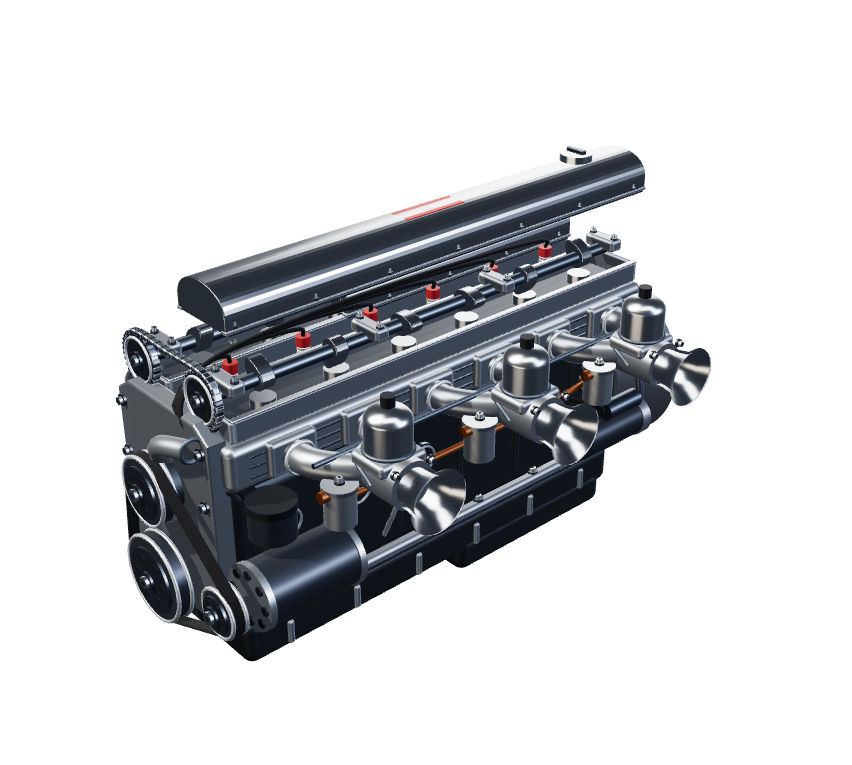
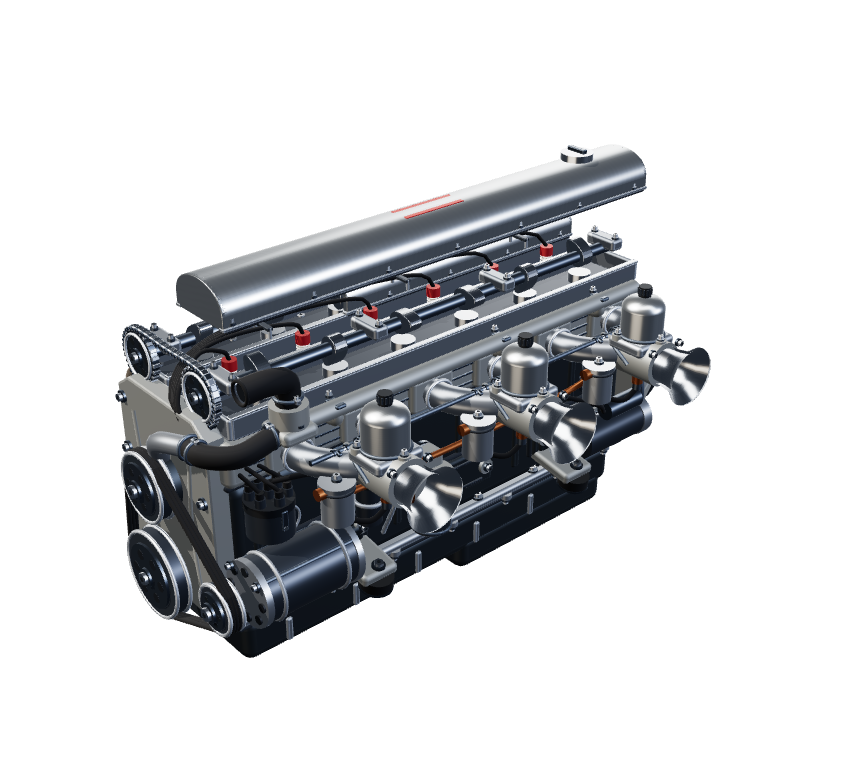
feat(site): refine engine materials and mechanical detail

Changed region(s): [[0.1221, 0.1804, 0.8239, 0.8719]]

diff --git a/apps/site/src/inline-six-model.ts b/apps/site/src/inline-six-model.ts
@@ -78,6 +78,38 @@ export function createInlineSixEngine() {
     roughness: 0.7,
   });
 
+  const brushedCanvas = document.createElement("canvas");
+  brushedCanvas.width = brushedCanvas.height = 256;
+  const brushedContext = brushedCanvas.getContext("2d")!;
+  const brushedPixels = brushedContext.createImageData(256, 256);
+  for (let y = 0; y < 256; y++) {
+    seed = (Math.imul(seed, 1664525) + 1013904223) >>> 0;
+    const line = 197 + (seed >>> 29);
+    for (let x = 0; x < 256; x++) {
+      const value = line + Math.round(2 * Math.sin(x * 0.07 + y * 0.13));
+      brushedPixels.data.set([value, value, value, 255], (y * 256 + x) * 4);
+    }
+  }
+  brushedContext.putImageData(brushedPixels, 0, 0);
+  const brushed = new THREE.CanvasTexture(brushedCanvas);
+  brushed.wrapS = brushed.wrapT = THREE.RepeatWrapping;
+  brushed.repeat.set(1, 3);
+  textures.push(brushed);
+  const polishedAlloy = new THREE.MeshStandardMaterial({
+    color: 0xcbd0d2, metalness: 0.96, roughness: 0.34,
+    roughnessMap: brushed, bumpMap: brushed, bumpScale: 0.0015,
+  });
+  const castAlloy = new THREE.MeshStandardMaterial({
+    color: 0x90928f, metalness: 0.72, roughness: 0.54,
+    bumpMap: grain, bumpScale: 0.018,
+  });
+  const porcelain = new THREE.MeshStandardMaterial({
+    color: 0xded7c8, metalness: 0, roughness: 0.24,
+  });
+  const exhaustSteel = new THREE.MeshStandardMaterial({
+    color: 0xffffff, metalness: 0.92, roughness: 0.32, vertexColors: true,
+    roughnessMap: brushed,
+  });
   function part(
     geometry: THREE.BufferGeometry,
     material: THREE.Material,
@@ -97,7 +129,7 @@ export function createInlineSixEngine() {
     radius = 0.045,
   ) {
     return part(
-      new RoundedBoxGeometry(size[0], size[1], size[2], 3, radius),
+      new RoundedBoxGeometry(size[0], size[1], size[2], 2, radius),
       material,
       parent,
       position,
@@ -110,7 +142,7 @@ export function createInlineSixEngine() {
     material: THREE.Material,
     parent: THREE.Object3D = engine,
     axis: "x" | "y" | "z" = "z",
-    segments = 48,
+    segments = 32,
   ) {
     const mesh = part(
       new THREE.CylinderGeometry(radius, radius, length, segments),
@@ -145,7 +177,7 @@ export function createInlineSixEngine() {
     radius: number,
     material: THREE.Material,
     parent: THREE.Object3D = engine,
-    segments = 48,
+    segments = 32,
   ) {
     const curve = new THREE.CatmullRomCurve3(
       points.map((p) => new THREE.Vector3(...(p as [number, number, number]))),
@@ -161,13 +193,14 @@ export function createInlineSixEngine() {
     parent: THREE.Object3D = engine,
     axis: "x" | "y" | "z" = "z",
     radius = 0.055,
+    direction = 1,
   ) {
     cylinder(radius * 1.4, 0.025, position, steel, parent, axis, 24);
     const face = [...position];
-    face[{ x: 0, y: 1, z: 2 }[axis]] += 0.025;
+    face[{ x: 0, y: 1, z: 2 }[axis]] += direction * 0.025;
     cylinder(radius, 0.045, face, chrome, parent, axis, 6);
     const inset = [...face];
-    inset[{ x: 0, y: 1, z: 2 }[axis]] += 0.025;
+    inset[{ x: 0, y: 1, z: 2 }[axis]] += direction * 0.025;
     cylinder(radius * 0.42, 0.002, inset, black, parent, axis, 6);
   }
   function plate(
@@ -214,12 +247,12 @@ export function createInlineSixEngine() {
   }
   fastener([0, -1.7, -2.52], engine, 'z', 0.095);
   box([1.63, 0.06, 5.45], [0, 0.43, 0], seal);
-  box([1.78, 0.45, 5.5], [0, 0.68, 0], metal, engine, 0.08);
+  box([1.78, 0.45, 5.5], [0, 0.68, 0], castAlloy, engine, 0.08);
   for (const side of [-1, 1]) {
     for (let row = 0; row < 3; row++)
       box([0.025, 0.023, 5.08], [side * 0.895, 0.57 + row * 0.105, 0], steel, engine, 0.007);
     for (const z of stations) {
-      box([0.14, 0.36, 0.53], [side * 0.9, 0.68, z], metal);
+      box([0.14, 0.36, 0.53], [side * 0.9, 0.68, z], castAlloy);
       fastener([side * 0.77, 0.94, z + 0.31], engine, 'y', 0.045);
     }
   }
@@ -268,10 +301,22 @@ export function createInlineSixEngine() {
     const cover = new THREE.Group();
     cover.position.set(x, y, z);
     engine.add(cover);
-    part(new THREE.ExtrudeGeometry(shell, {
+    const shellGeometry = new THREE.ExtrudeGeometry(shell, {
       depth: length, bevelEnabled: true, bevelSize: 0.012,
-      bevelThickness: 0.012, bevelSegments: 3, curveSegments: 24,
-    }), chrome, cover, [0, 0, -length / 2]);
+      bevelThickness: 0.012, bevelSegments: 3, curveSegments: 32,
+    });
+    // Smooth the domed walls while keeping the machined rim and end bevels crisp.
+    const shellPositions = shellGeometry.getAttribute("position");
+    const shellNormals = shellGeometry.getAttribute("normal");
+    const wallNormal = new THREE.Vector3();
+    for (let i = 0; i < shellPositions.count; i++) {
+      const x = shellPositions.getX(i), y = shellPositions.getY(i);
+      if (y <= 0.12 || Math.abs(shellNormals.getZ(i)) > 0.01) continue;
+      wallNormal.set(x / (0.35 * 0.35), (y - 0.12) / (0.24 * 0.24), 0).normalize();
+      const facing = Math.sign(wallNormal.x * shellNormals.getX(i) + wallNormal.y * shellNormals.getY(i));
+      shellNormals.setXYZ(i, wallNormal.x * facing, wallNormal.y * facing, 0);
+    }
+    part(shellGeometry, polishedAlloy, cover, [0, 0, -length / 2]);
     const endProfile = new THREE.Shape();
     endProfile.moveTo(-0.35, 0);
     endProfile.lineTo(-0.35, 0.12);
@@ -283,7 +328,7 @@ export function createInlineSixEngine() {
       part(new THREE.ExtrudeGeometry(endProfile, {
         depth: 0.035, bevelEnabled: true, bevelSize: 0.012,
         bevelThickness: 0.012, bevelSegments: 3, curveSegments: 24,
-      }), chrome, cover, [0, 0, end * length / 2 - 0.0175]);
+      }), polishedAlloy, cover, [0, 0, end * length / 2 - 0.0175]);
     }
     for (const side of [-1, 1]) {
       box([0.075, 0.035, length + 0.07], [side * 0.34, 0, 0], metal, cover, 0.012);
@@ -320,11 +365,11 @@ export function createInlineSixEngine() {
   // Central spark plugs and six leads follow the valley between the cam housings.
   for (const [i, z] of stations.entries()) {
     cylinder(0.095, 0.045, [0, 0.97, z], chrome, engine, 'y', 6);
-    cylinder(0.058, 0.15, [0, 1.065, z], metal, engine, 'y', 20);
-    for (let j = 0; j < 4; j++) ring(0.061, 0.008, [0, 1.02 + j * 0.032, z], chrome, engine, 'y');
+    cylinder(0.058, 0.15, [0, 1.065, z], porcelain, engine, 'y', 20);
+    for (let j = 0; j < 4; j++) ring(0.061, 0.008, [0, 1.02 + j * 0.032, z], porcelain, engine, 'y');
     cylinder(0.073, 0.1, [0, 1.18, z], red, engine, 'y', 20);
-    tube([[0, 1.23, z], [0.11, 1.37, z + 0.1], [0.14, 1.38, 2.45],
-      [0.22 + i * 0.022, 1.1, 2.85], [0.85, 0.18, 2.32 + i * 0.035]], 0.021, rubber, engine, 40);
+    tube([[0, 1.23, z], [-0.095 + i * 0.035, 1.37, z + 0.1], [-0.095 + i * 0.035, 1.38 + i * 0.012, 2.45],
+      [0.22 + i * 0.022, 1.1, 2.85], [0.98 + Math.cos(i * Math.PI / 3) * 0.17, 0.47, 2.4 + Math.sin(i * Math.PI / 3) * 0.17]], 0.021, rubber, engine, 40);
   }
   cylinder(0.23, 0.3, [0.98, 0.11, 2.4], graphite, engine, 'y');
   cylinder(0.24, 0.08, [0.98, 0.29, 2.4], black, engine, 'y');
@@ -336,10 +381,10 @@ export function createInlineSixEngine() {
         [1.66, 0.7, z]], 0.14, metal, engine, 30);
       ring(0.155, 0.02, [1.05, 0.68, z + dz], chrome, engine, 'x');
     }
-    cylinder(0.235, 0.57, [1.8, 0.7, z], metal, engine, 'x');
+    cylinder(0.235, 0.57, [1.8, 0.7, z], castAlloy, engine, 'x');
     box([0.44, 0.13, 0.53], [1.77, 0.86, z], metal);
-    cylinder(0.22, 0.33, [1.77, 1.065, z], chrome, engine, 'y');
-    const dome = part(new THREE.SphereGeometry(0.22, 32, 16, 0, Math.PI * 2, 0, Math.PI / 2), chrome, engine, [1.77, 1.23, z]);
+    cylinder(0.22, 0.33, [1.77, 1.065, z], polishedAlloy, engine, 'y');
+    const dome = part(new THREE.SphereGeometry(0.22, 32, 16, 0, Math.PI * 2, 0, Math.PI / 2), polishedAlloy, engine, [1.77, 1.23, z]);
     dome.scale.y = 0.6;
     cylinder(0.065, 0.12, [1.77, 1.4, z], black, engine, 'y', 24);
     ring(0.224, 0.019, [1.77, 0.94, z], steel, engine, 'y');
@@ -365,12 +410,25 @@ export function createInlineSixEngine() {
   // Six individual exhaust primaries join two three-cylinder collectors.
   stations.forEach((z, i) => {
     box([0.1, 0.39, 0.57], [-0.96, 0.67, z], steel);
-    for (const dz of [-0.22, 0.22]) fastener([-1.03, 0.71, z + dz], engine, 'x', 0.035);
+    for (const dz of [-0.22, 0.22]) fastener([-1.03, 0.71, z + dz], engine, 'x', 0.035, -1);
     const group = i < 3 ? -1 : 1;
     const endZ = group * 1.24;
-    tube([[-1, 0.66, z], [-1.36, 0.66, z], [-1.65 - (i % 3) * 0.11, 0.25, z],
+    const header = tube([[-1, 0.66, z], [-1.36, 0.66, z], [-1.65 - (i % 3) * 0.11, 0.25, z],
       [-1.71 - (i % 3) * 0.06, -0.65, z * 0.8], [-1.64, -1.2, endZ + (i % 3 - 1) * 0.16]],
-      0.125, chrome, engine, 48);
+      0.125, exhaustSteel, engine, 48);
+    const uv = header.geometry.getAttribute("uv");
+    const colors = new Float32Array(uv.count * 3);
+    const hot = new THREE.Color(0x756759);
+    const straw = new THREE.Color(0xb3a18a);
+    const cool = new THREE.Color(0xb6bdc0);
+    const color = new THREE.Color();
+    for (let j = 0; j < uv.count; j++) {
+      const t = uv.getX(j);
+      if (t < 0.22) color.copy(hot).lerp(straw, t / 0.22);
+      else color.copy(straw).lerp(cool, Math.min(1, (t - 0.22) / 0.55));
+      color.toArray(colors, j * 3);
+    }
+    header.geometry.setAttribute("color", new THREE.BufferAttribute(colors, 3));
     ring(0.133, 0.016, [-1.22, 0.66, z], steel, engine, 'x');
   });
   for (const z of [-1.24, 1.24]) {
@@ -381,7 +439,7 @@ export function createInlineSixEngine() {
 
   // Front timing chest. A small open upper section shows both cam sprockets and the chain.
   plate([[-0.74, -1.04], [0.74, -1.04], [0.73, 0.94], [0.54, 1.07],
-    [-0.54, 1.07], [-0.73, 0.94]], 0.16, [0, 0, 2.69], metal);
+    [-0.54, 1.07], [-0.73, 0.94]], 0.16, [0, 0, 2.69], castAlloy);
   for (const x of [-0.66, 0.66])
     for (const y of [-0.85, -0.3, 0.3, 0.85]) fastener([x, y, 2.89], engine, 'z', 0.044);
   function sprocket(x: number, y: number, r: number) {
@@ -453,7 +511,7 @@ export function createInlineSixEngine() {
   ring(0.112, 0.02, [0.63, 0.9, 2.95], steel, engine, 'x');
 
   // Rear flywheel housing and starter complete the silhouette from the back.
-  const bellHousing = part(new THREE.CylinderGeometry(0.7, 1.04, 0.66, 64), metal, engine, [0, -0.48, -3.02]);
+  const bellHousing = part(new THREE.CylinderGeometry(1.04, 0.7, 0.66, 64), castAlloy, engine, [0, -0.48, -3.02]);
   bellHousing.rotation.x = Math.PI / 2;
   ring(1.015, 0.045, [0, -0.48, -2.71], steel);
   cylinder(0.72, 0.05, [0, -0.48, -3.37], steel);
@@ -461,7 +519,7 @@ export function createInlineSixEngine() {
   cylinder(0.1, 0.13, [0, -0.48, -3.48], chrome);
   for (let i = 0; i < 12; i++) {
     const a = i * Math.PI / 6;
-    fastener([Math.cos(a) * 0.64, -0.48 + Math.sin(a) * 0.64, -3.41], engine, 'z', 0.037);
+    fastener([Math.cos(a) * 0.64, -0.48 + Math.sin(a) * 0.64, -3.41], engine, 'z', 0.037, -1);
   }
   cylinder(0.22, 0.92, [0.94, -0.74, -2.22], graphite);
   cylinder(0.235, 0.13, [0.94, -0.74, -2.7], metal);
@@ -469,6 +527,166 @@ export function createInlineSixEngine() {
   tube([[1.04, -0.43, -2.05], [1.18, -0.2, -1.8], [1.12, 0.05, -1.33]], 0.026, rubber);
   tube([[0.8, -0.82, 0.95], [1, -0.33, 0.94], [1.04, 0.25, 0.87]], 0.026, chrome);
   ring(0.075, 0.022, [1.04, 0.33, 0.87], red);
+  // Cast bosses and jacket covers give the block a manufactured, assembled surface.
+  for (const side of [-1, 1]) {
+    for (const z of [-1.68, 0, 1.68]) {
+      box([0.065, 0.49, 1.1], [side * 0.768, -0.55, z], seal, engine, 0.08);
+      box([0.07, 0.43, 1.03], [side * 0.815, -0.55, z], cast, engine, 0.07);
+      for (const dz of [-0.4, 0.4]) {
+        cylinder(0.085, 0.06, [side * 0.86, -0.55, z + dz], castAlloy, engine, 'x', 20);
+        fastener([side * 0.9, -0.55, z + dz], engine, 'x', 0.036, side);
+      }
+      for (const dy of [-0.69, -0.41])
+        box([0.03, 0.025, 0.73], [side * 0.86, dy, z], graphite, engine, 0.008);
+    }
+    for (const z of [-1.38, 1.4]) {
+      const mount = new THREE.Group();
+      mount.position.set(side * 0.82, -0.76, z);
+      mount.rotation.z = -side * 0.18;
+      engine.add(mount);
+      box([0.58, 0.13, 0.42], [side * 0.23, 0, 0], castAlloy, mount);
+      box([0.09, 0.28, 0.31], [0, 0.1, 0], cast, mount);
+      cylinder(0.17, 0.12, [side * 0.45, -0.09, 0], rubber, mount, 'y');
+      cylinder(0.175, 0.025, [side * 0.45, -0.16, 0], steel, mount, 'y');
+      fastener([side * 0.45, 0.095, 0], mount, 'y', 0.05);
+    }
+  }
+  for (const x of [-0.54, -0.36, -0.18, 0, 0.18, 0.36, 0.54]) {
+    box([0.035, 0.065, 2.0], [x, -1.948, -1.34], metal, engine, 0.012);
+    box([0.035, 0.035, 2.35], [x, -1.705, 1.34], castAlloy, engine, 0.012);
+  }
+  for (const z of [-2.4, -1.6, -0.8, 0, 0.8, 1.6, 2.4]) {
+    for (const side of [-1, 1]) {
+      cylinder(0.065, 0.055, [side * 0.79, -1.135, z], metal, engine, 'y', 20);
+      fastener([side * 0.79, -1.19, z], engine, 'y', 0.032, -1);
+    }
+  }
+
+  // Oil filter canister, housing, pressure sender and metal oil line.
+  box([0.26, 0.22, 0.4], [0.87, -0.11, 0.5], castAlloy);
+  cylinder(0.23, 0.08, [1.02, -0.2, 0.5], castAlloy, engine, 'y');
+  cylinder(0.205, 0.58, [1.02, -0.53, 0.5], graphite, engine, 'y');
+  ring(0.205, 0.016, [1.02, -0.79, 0.5], steel, engine, 'y');
+  cylinder(0.18, 0.035, [1.02, -0.825, 0.5], metal, engine, 'y');
+  fastener([1.02, -0.86, 0.5], engine, 'y', 0.045, -1);
+  cylinder(0.067, 0.08, [0.98, -0.03, 0.75], copper, engine, 'y', 6);
+  cylinder(0.085, 0.12, [0.98, 0.065, 0.75], graphite, engine, 'y', 24);
+  tube([[0.98, 0.15, 0.75], [1.11, 0.26, 0.74], [1.08, 0.3, 1.48]], 0.017, rubber, engine, 20);
+  tube([[-0.83, -0.47, -2.34], [-0.95, -0.13, -2.45], [-0.94, 0.29, -2.43],
+    [-0.76, 0.81, -2.48]], 0.026, copper, engine, 30);
+  for (const y of [-0.47, 0.77]) cylinder(0.058, 0.065, [-0.83, y, -2.4], copper, engine, 'y', 6);
+
+  // Cooling rail and formed rubber hose, with slotted stainless clamps.
+  function hoseClamp(position: number[], radius: number, axis: 'x' | 'y' | 'z') {
+    ring(radius, 0.019, position, steel, engine, axis);
+    const screw = [...position];
+    screw[axis === 'y' ? 0 : 1] += radius;
+    box([0.085, 0.045, 0.05], screw, metal, engine, 0.01);
+    fastener(screw, engine, axis, 0.023);
+  }
+  cylinder(0.085, 4.54, [1.025, 0.98, -0.15], castAlloy);
+  for (const z of [-1.86, -0.42, 1.65]) {
+    tube([[0.9, 0.84, z], [1.025, 0.87, z], [1.025, 0.98, z]], 0.065, castAlloy, engine, 16);
+    box([0.2, 0.04, 0.11], [1.025, 1.03, z], steel);
+    fastener([0.93, 1.07, z], engine, 'y', 0.026);
+  }
+  box([0.4, 0.14, 0.38], [1.025, 0.96, 2.16], castAlloy, engine, 0.055);
+  cylinder(0.18, 0.2, [1.025, 1.12, 2.16], castAlloy, engine, 'y');
+  for (const dx of [-0.15, 0.15]) fastener([1.025 + dx, 1.06, 2.16], engine, 'y', 0.031);
+  tube([[0.63, 0.9, 2.95], [0.83, 0.9, 2.94], [1.06, 0.92, 2.74], [1.025, 0.96, 2.28]],
+    0.105, rubber, engine, 32);
+  hoseClamp([0.74, 0.9, 2.95], 0.108, 'x');
+  hoseClamp([1.025, 0.96, 2.37], 0.109, 'z');
+  tube([[1.025, 1.22, 2.16], [1.025, 1.43, 2.18], [1.1, 1.54, 2.43], [1.1, 1.54, 2.68]],
+    0.12, rubber, engine, 32);
+  hoseClamp([1.025, 1.29, 2.16], 0.124, 'y');
+  ring(0.108, 0.017, [1.1, 1.54, 2.69], rubber);
+  cylinder(0.09, 0.008, [1.1, 1.54, 2.66], black);
+
+  // Dashpot screws, bowl seams, jets, throttle levers and return springs.
+  for (const z of [-1.68, 0, 1.68]) {
+    for (let i = 0; i < 3; i++) {
+      const a = i * Math.PI * 2 / 3;
+      const x = 1.77 + Math.cos(a) * 0.25;
+      const boltZ = z + Math.sin(a) * 0.25;
+      cylinder(0.06, 0.06, [x, 0.925, boltZ], castAlloy, engine, 'y', 20);
+      fastener([x, 0.96, boltZ], engine, 'y', 0.028);
+    }
+    for (let i = 0; i < 12; i++) {
+      const a = i * Math.PI / 6;
+      box([0.016, 0.065, 0.016], [1.77 + Math.cos(a) * 0.065, 1.41, z + Math.sin(a) * 0.065], graphite, engine, 0.004);
+    }
+    ring(0.155, 0.012, [1.58, 0.58, z + 0.4], seal, engine, 'y');
+    cylinder(0.059, 0.12, [1.77, 0.43, z], copper, engine, 'y', 6);
+    cylinder(0.046, 0.07, [1.77, 0.335, z], steel, engine, 'y', 20);
+    tube([[1.77, 0.3, z], [1.74, 0.21, z + 0.16], [1.58, 0.28, z + 0.4]], 0.027, rubber, engine, 18);
+    const lever = box([0.07, 0.27, 0.045], [1.44, 0.73, z + 0.29], steel, engine, 0.016);
+    lever.rotation.z = -0.35;
+    fastener([1.44, 0.83, z + 0.32], engine, 'z', 0.026);
+    const spring: number[][] = [];
+    for (let i = 0; i <= 96; i++) {
+      const a = i * Math.PI / 6;
+      spring.push([1.44 + Math.cos(a) * 0.055, 0.83 + Math.sin(a) * 0.055, z - 0.29 + i * 0.0038]);
+    }
+    tube(spring, 0.009, steel, engine, 100);
+    for (const dz of [-0.34, 0.14]) {
+      box([0.15, 0.12, 0.055], [1.44, 0.79, z + dz], castAlloy, engine, 0.018);
+      fastener([1.44, 0.83, z + dz + 0.04], engine, 'z', 0.028);
+    }
+    const butterfly = cylinder(0.167, 0.014, [2.09, 0.7, z], copper, engine, 'x', 32);
+    butterfly.rotation.y = 1.1;
+    for (const dy of [-0.07, 0.07]) cylinder(0.016, 0.02, [2.11, 0.7 + dy, z], steel, engine, 'x', 12);
+  }
+
+  // Distributor towers, retaining clips, coil terminals and restrained wire routing.
+  for (let i = 0; i < 6; i++) {
+    const a = i * Math.PI / 3;
+    const x = 0.98 + Math.cos(a) * 0.17;
+    const z = 2.4 + Math.sin(a) * 0.17;
+    cylinder(0.051, 0.11, [x, 0.36, z], graphite, engine, 'y', 20);
+    cylinder(0.04, 0.09, [x, 0.43, z], rubber, engine, 'y', 20);
+  }
+  cylinder(0.051, 0.11, [0.98, 0.36, 2.4], graphite, engine, 'y', 20);
+  cylinder(0.04, 0.11, [0.98, 0.43, 2.4], rubber, engine, 'y', 20);
+  for (const dx of [-0.24, 0.24]) {
+    box([0.025, 0.2, 0.065], [0.98 + dx, 0.19, 2.4], steel, engine, 0.01);
+    cylinder(0.023, 0.032, [0.98 + dx, 0.115, 2.4], chrome, engine, 'x', 12);
+  }
+  cylinder(0.13, 0.44, [1.03, -0.17, 1.3], graphite, engine, 'y');
+  ring(0.138, 0.024, [1.03, -0.15, 1.3], metal, engine, 'y');
+  cylinder(0.14, 0.045, [1.03, 0.06, 1.3], black, engine, 'y');
+  for (const dx of [-0.09, 0.09]) cylinder(0.024, 0.075, [1.03 + dx, 0.12, 1.3], copper, engine, 'y', 12);
+  tube([[1.03, 0.13, 1.3], [1.18, 0.35, 1.53], [1.18, 0.53, 2.06], [0.98, 0.48, 2.4]], 0.027, rubber, engine, 30);
+  for (const z of [-1.65, 0.03, 1.71]) {
+    box([0.27, 0.037, 0.065], [0, 1.46, z], graphite, engine, 0.012);
+    for (const x of [-0.12, 0.12]) cylinder(0.018, 0.11, [x, 1.42, z], metal, engine, 'y', 12);
+  }
+
+  // Machined joints, weld seams and cast ribs around the accessory and rear housings.
+  for (const z of [1.88, 2.6])
+    ring(0.327, 0.022, [1.13, -0.48, z], metal);
+  for (const dx of [-0.21, 0.21]) {
+    cylinder(0.025, 0.99, [1.13 + dx, -0.26, 2.25], steel, engine, 'z', 12);
+    fastener([1.13 + dx, -0.26, 2.82], engine, 'z', 0.032);
+  }
+  for (let i = 0; i < 10; i++) {
+    const a = i * Math.PI / 5;
+    tube([[Math.cos(a) * 0.96, -0.48 + Math.sin(a) * 0.96, -2.79],
+      [Math.cos(a) * 0.85, -0.48 + Math.sin(a) * 0.85, -3.04],
+      [Math.cos(a) * 0.72, -0.48 + Math.sin(a) * 0.72, -3.3]], 0.028, castAlloy, engine, 12);
+  }
+  for (const x of [-0.48, 0.48]) {
+    tube([[x, -0.88, 2.875], [x * 0.85, -0.14, 2.875], [x, 0.78, 2.875]], 0.026, castAlloy, engine, 16);
+  }
+  stations.forEach((z) => {
+    for (const dx of [-1.12, -1.27]) ring(0.127, 0.008, [dx, 0.66, z], steel, engine, 'x');
+    cylinder(0.15, 0.06, [-1.045, 0.66, z], steel, engine, 'x');
+  });
+  for (const z of [-1.24, 1.24]) {
+    ring(0.237, 0.017, [-1.64, -1.43, z], metal, engine, 'y');
+    box([0.6, 0.06, 0.46], [-1.64, -1.57, z], steel, engine, 0.1);
+    for (const dx of [-0.25, 0.25]) fastener([-1.64 + dx, -1.62, z], engine, 'y', 0.034, -1);
+  }
   // The entire exterior is static. Merge by material to keep the detailed model cheap to draw.
   engine.updateMatrixWorld(true);
   const batches = new Map<THREE.Material, THREE.BufferGeometry[]>();
